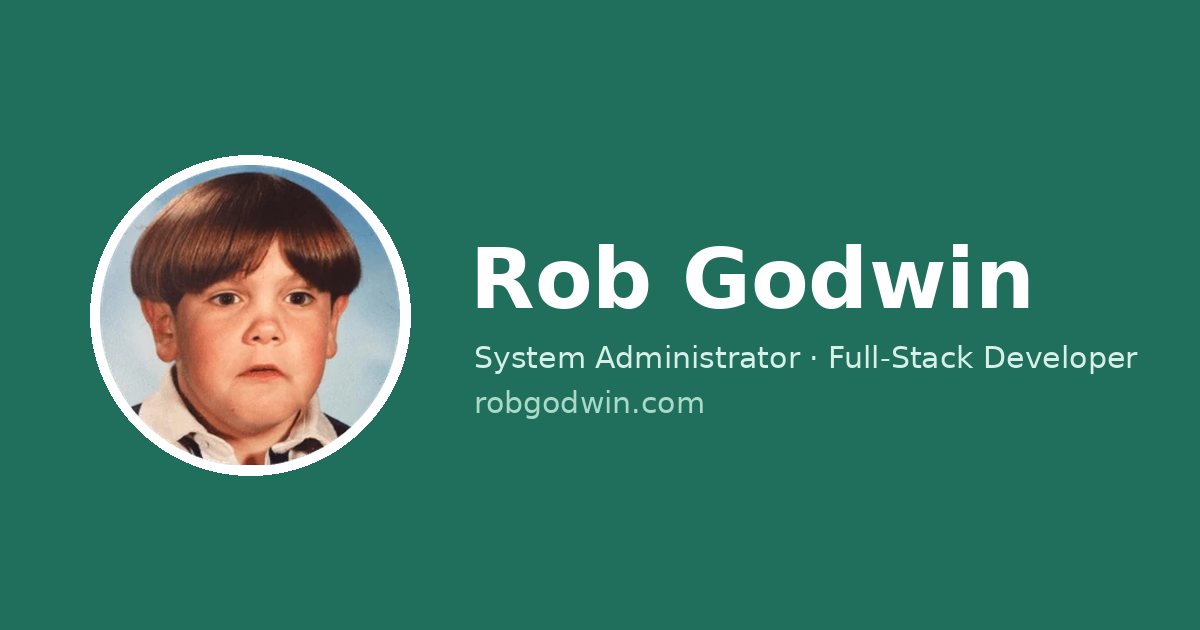
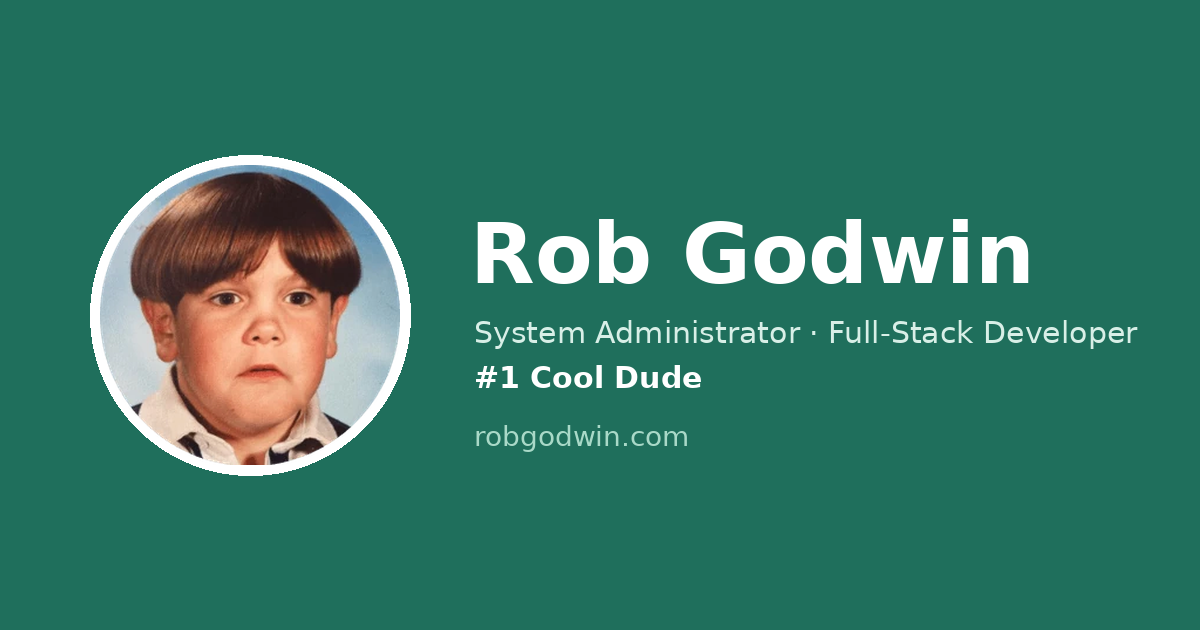
Restore #1 Cool Dude to social preview and meta description
Claude-Session: https://claude.ai/code/session_014aP6JNCMLeXRPbYD6k52UL

Changed region(s): [[0.37, 0.3317, 0.9558, 0.7238]]

diff --git a/public/index.html b/public/index.html
@@ -4,14 +4,14 @@
   <meta charset="utf-8">
   <meta name="viewport" content="width=device-width, initial-scale=1">
   <title>Rob Godwin</title>
-  <meta name="description" content="Rob Godwin — systems administrator and full-stack developer based in Cincinnati, OH.">
+  <meta name="description" content="Rob Godwin — systems administrator and full-stack developer based in Cincinnati, OH. #1 Cool Dude.">
   <meta name="author" content="Rob Godwin">
   <meta name="color-scheme" content="light dark">
   <meta name="theme-color" content="#1f6f5c">
   <link rel="canonical" href="https://robgodwin.com/">
   <meta property="og:type" content="website">
   <meta property="og:title" content="Rob Godwin">
-  <meta property="og:description" content="Systems administrator and full-stack developer based in Cincinnati, OH.">
+  <meta property="og:description" content="Systems administrator and full-stack developer based in Cincinnati, OH. #1 Cool Dude.">
   <meta property="og:url" content="https://robgodwin.com/">
   <meta property="og:image" content="https://robgodwin.com/og-image.png">
   <meta property="og:image:width" content="1200">
